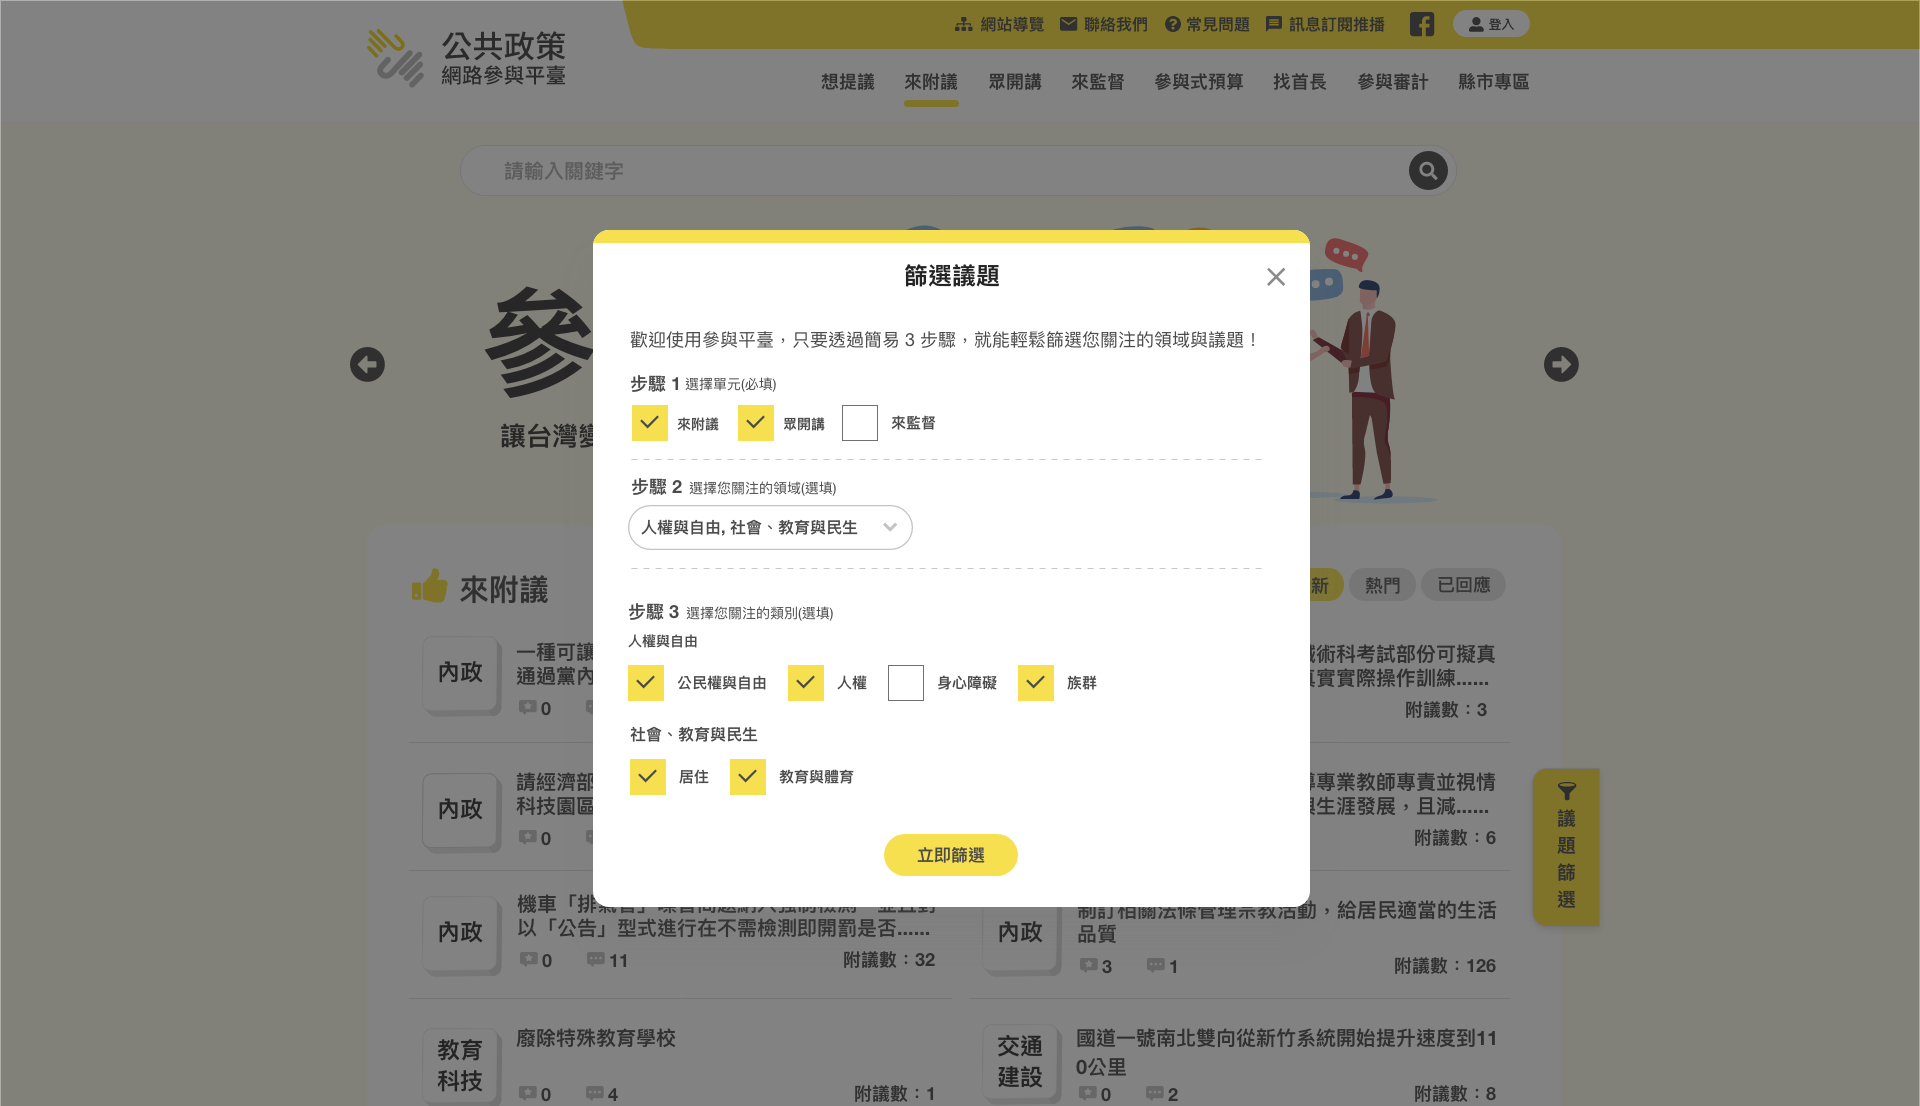
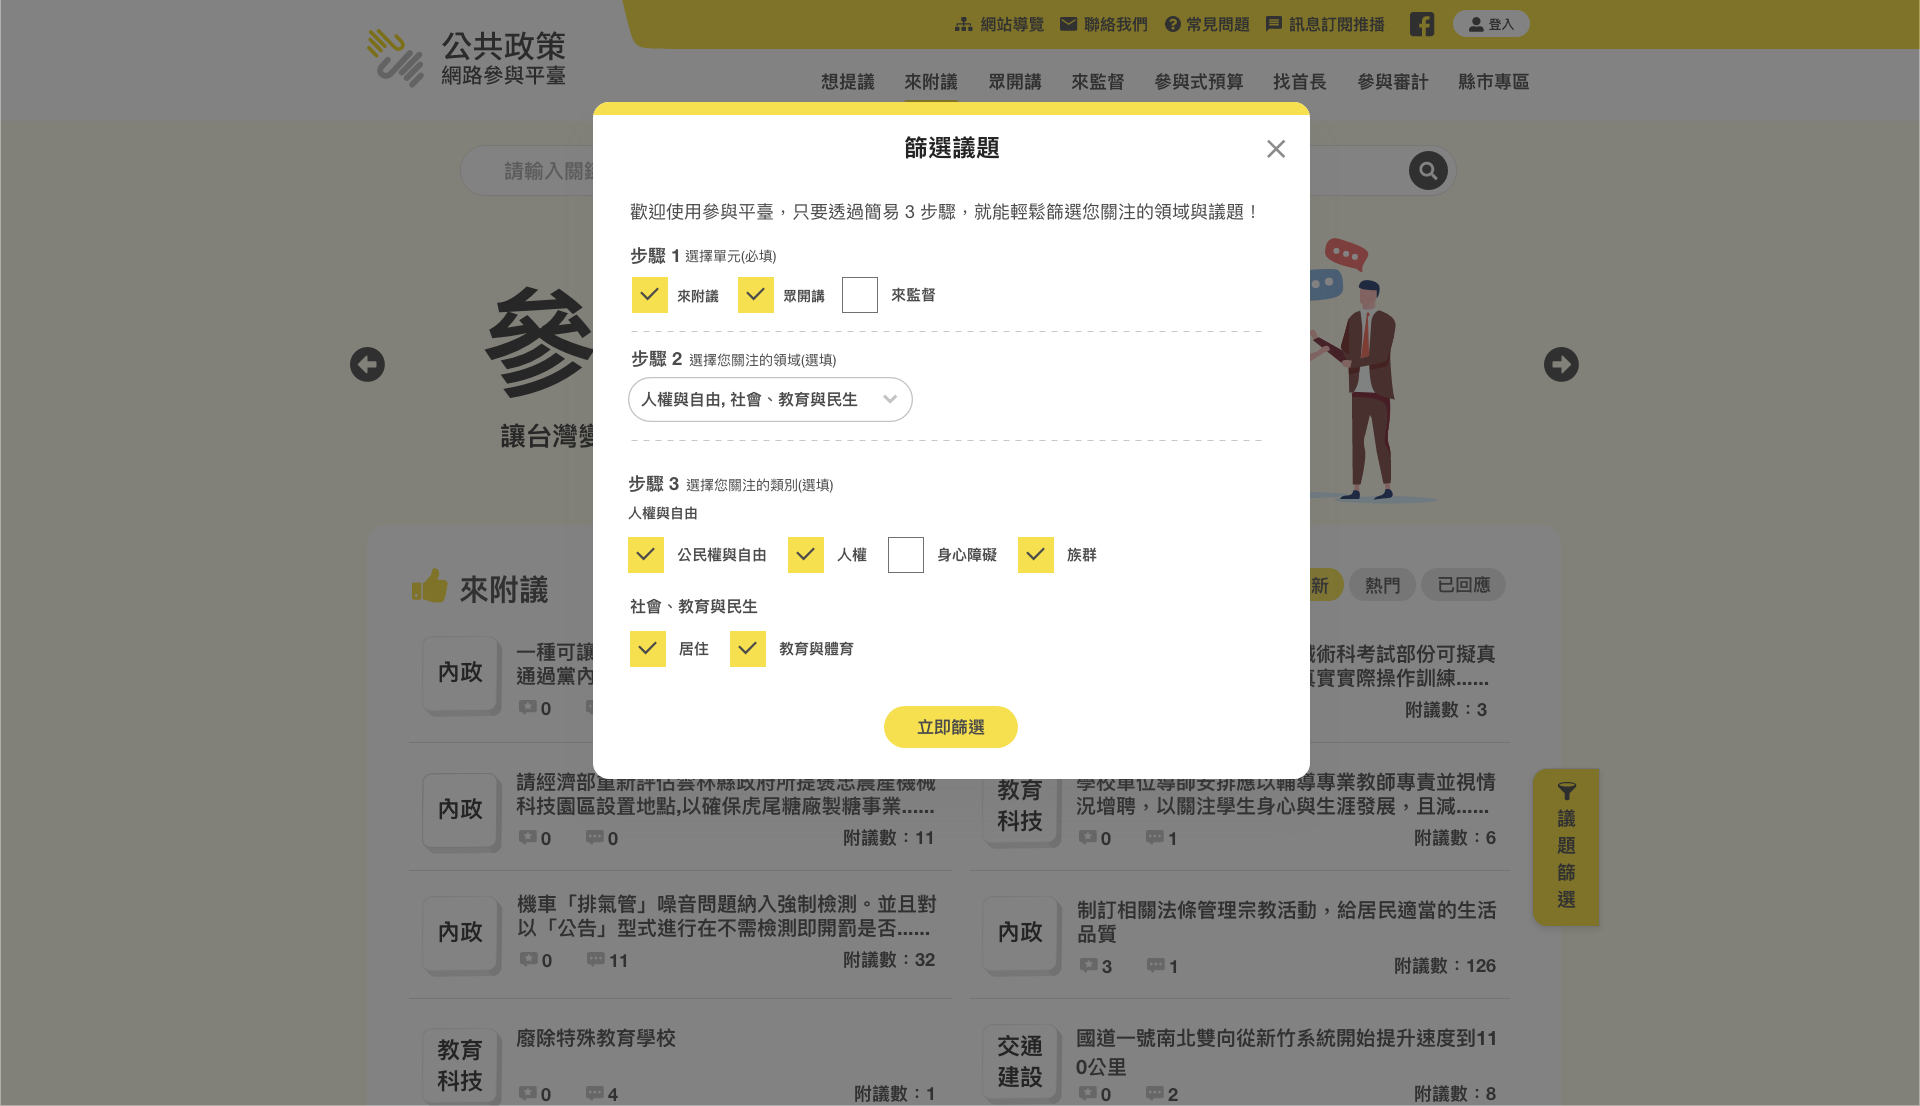
1025-修改篩選議題

Changed region(s): [[0.2812, 0.0922, 0.6875, 0.3996], [0.2812, 0.4304, 0.6875, 0.83]]

diff --git a/index-popup.html b/index-popup.html
@@ -4,7 +4,7 @@
 
 
 	<body style="margin: 0px;">
-		<div style="background-image:url(../join/img/首頁設計-篩選-電腦版.jpg);background-repeat:no-repeat;background-position:top center;width:100%;height:4269px;"></div>
+		<div style="background-image:url(../join/img/首頁設計-篩選-電腦版.jpg);background-repeat:no-repeat;background-position:top center;width:100%;height:1106px;"></div>
 	</body>
 
 </html>
